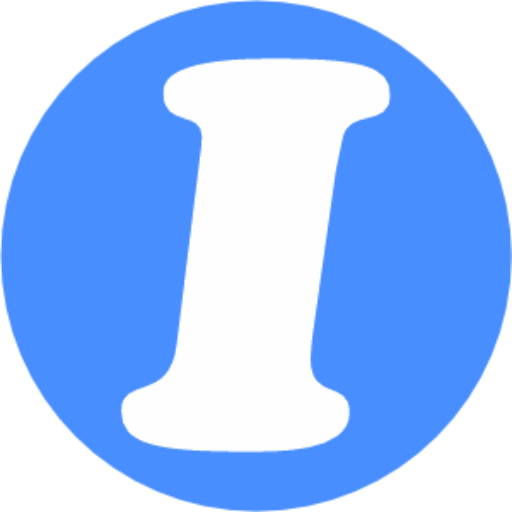
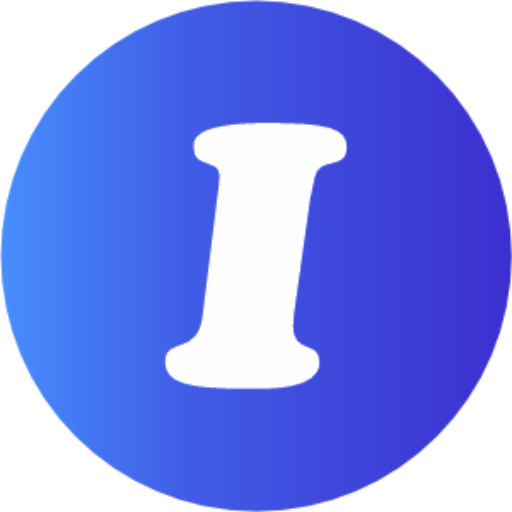
update

diff --git a/public/css/style.css b/public/css/style.css
@@ -291,7 +291,7 @@ textarea:focus, input[type="text"]:focus, input[type="password"]:focus, input[ty
 }
 
 .scrollup:hover {
-	background: linear-gradient(45deg, #488EFE, #2A6AC9);
+	background: linear-gradient(45deg, #488EFE, #405DE6, #3C2FCF);
 }
 
 .section {
@@ -464,7 +464,7 @@ section {
 	  left: 0;
 	  width: 0%;
 	  height: 100%;
-	  background: linear-gradient(45deg, #488EFE, #2A6AC9);
+	  background: linear-gradient(45deg, #488EFE, #405DE6, #3C2FCF);
 	  transition: all .3s;
 	  border-radius: 10rem;
 	  z-index: -1;
@@ -489,7 +489,7 @@ section {
 	border-radius: 10rem;
 	font-size: 1rem;
 	letter-spacing: .15rem;
-	background: linear-gradient(45deg, #488EFE, #2A6AC9);
+	background: linear-gradient(45deg, #488EFE, #405DE6, #3C2FCF);
 	border-color: #488EFE;
 	color:#FFF;
 	transition: background-color 0.9s ease-in-out;
@@ -515,12 +515,12 @@ section {
 
 .btn-gray-border:hover, .btn-gray-border:focus {
 	color: #FFF;
-	background: linear-gradient(45deg, #488EFE, #2A6AC9);
+	background: linear-gradient(45deg, #488EFE, #405DE6, #3C2FCF);
 	border-color:#488EFE;
 }
 .btn-blue-border:hover, .btn-blue-border:focus {
 	color: #FFF;
-	background: linear-gradient(45deg, #488EFE, #2A6AC9);
+	background: linear-gradient(45deg, #488EFE, #405DE6, #3C2FCF);
 	border-color:#488EFE;
 }
 
@@ -557,7 +557,7 @@ section {
 	  left: 0;
 	  width: 0%;
 	  height: 100%;
-	  background: linear-gradient(45deg, #488EFE, #2A6AC9);
+	  background: linear-gradient(45deg, #488EFE, #405DE6, #3C2FCF);
 	  transition: all .3s;
 	  border-radius: 10rem;
 	  z-index: -1;
@@ -996,7 +996,7 @@ section {
 	.toggle-inner{
 		color: #488EFE;
 	};
-    background: linear-gradient(45deg, #488EFE, #2A6AC9) !important;
+    background: linear-gradient(45deg, #488EFE, #405DE6, #3C2FCF) !important;
 }
 
 
@@ -1465,13 +1465,13 @@ html[xmlns] .slides {
 
 .content-tab-1 > .nav > li.active {
     border: 2px solid #488EFE;
-    background: linear-gradient(45deg, #488EFE, #2A6AC9);
+    background: linear-gradient(45deg, #488EFE, #405DE6, #3C2FCF);
 }
 
 .content-tab-1 > .nav > li:hover {
 	display: inline-block;
     border: 2px solid #488EFE;
-    background: linear-gradient(45deg, #488EFE, #2A6AC9);
+    background: linear-gradient(45deg, #488EFE, #405DE6, #3C2FCF);
 }
 
 .tab-content-main {
@@ -1492,7 +1492,7 @@ html[xmlns] .slides {
 	position: absolute;
 	width: 40px;
 	height: 40px;
-	background: linear-gradient(45deg, #488EFE, #2A6AC9) ;
+	background: linear-gradient(45deg, #488EFE, #405DE6, #3C2FCF) ;
 	color: #FFF;
 	text-align: center;
 	line-height: 35px;
@@ -1716,7 +1716,7 @@ html[xmlns] .slides {
 	transition: background 0.5s ease-in-out, color 0.5s ease-in-out, border-color 0.5s ease-in-out;
 }
 .timeline .timeline-item:hover {
-	background: linear-gradient(45deg, #488EFE, #2A6AC9);
+	background: linear-gradient(45deg, #488EFE, #405DE6, #3C2FCF);
 	
 }
 .timeline .timeline-item:hover h4 i {
@@ -1730,7 +1730,7 @@ html[xmlns] .slides {
 	font-weight: bold;
 }
 .timeline-item h4 i {
-    background: linear-gradient(45deg, #488EFE, #2A6AC9);
+    background: linear-gradient(45deg, #488EFE, #405DE6, #3C2FCF);
     color: white;
     border-radius: 50%;
     padding: 10px;
@@ -1867,7 +1867,7 @@ html[xmlns] .slides {
 	border: 2px solid white;
 }
 .work-grid .work-item .hover-link .btn:hover{
-	background: linear-gradient(45deg, #488EFE, #2A6AC9); 
+	background: linear-gradient(45deg, #488EFE, #405DE6, #3C2FCF); 
 	border: 2px solid #488EFE;
 }
 
@@ -2088,7 +2088,7 @@ html[xmlns] .slides {
 	  left: 0;
 	  width: 0%;
 	  height: 100%;
-	  background: linear-gradient(45deg, #488EFE, #2A6AC9);
+	  background: linear-gradient(45deg, #488EFE, #405DE6, #3C2FCF);
 	  transition: all .3s;
 	  border-radius: 8px;
 	  z-index: -1;
@@ -2324,7 +2324,7 @@ html[xmlns] .slides {
 	border-radius: 50%;
 	display: inline-block;
 	margin: 0px auto;
-	background: linear-gradient(45deg, #488EFE, #2A6AC9) none repeat scroll 0% 0%;
+	background: linear-gradient(45deg, #488EFE, #405DE6, #3C2FCF) none repeat scroll 0% 0%;
 }
 
 .services-box .services-desc {
@@ -3477,7 +3477,7 @@ li.comment ol.comment-sub {
 	  left: 0;
 	  width: 0%;
 	  height: 100%;
-	  background: linear-gradient(45deg, #488EFE, #2A6AC9);
+	  background: linear-gradient(45deg, #488EFE, #405DE6, #3C2FCF);
 	  transition: all .3s;
 	  border-radius: 10rem;
 	  z-index: -1;
